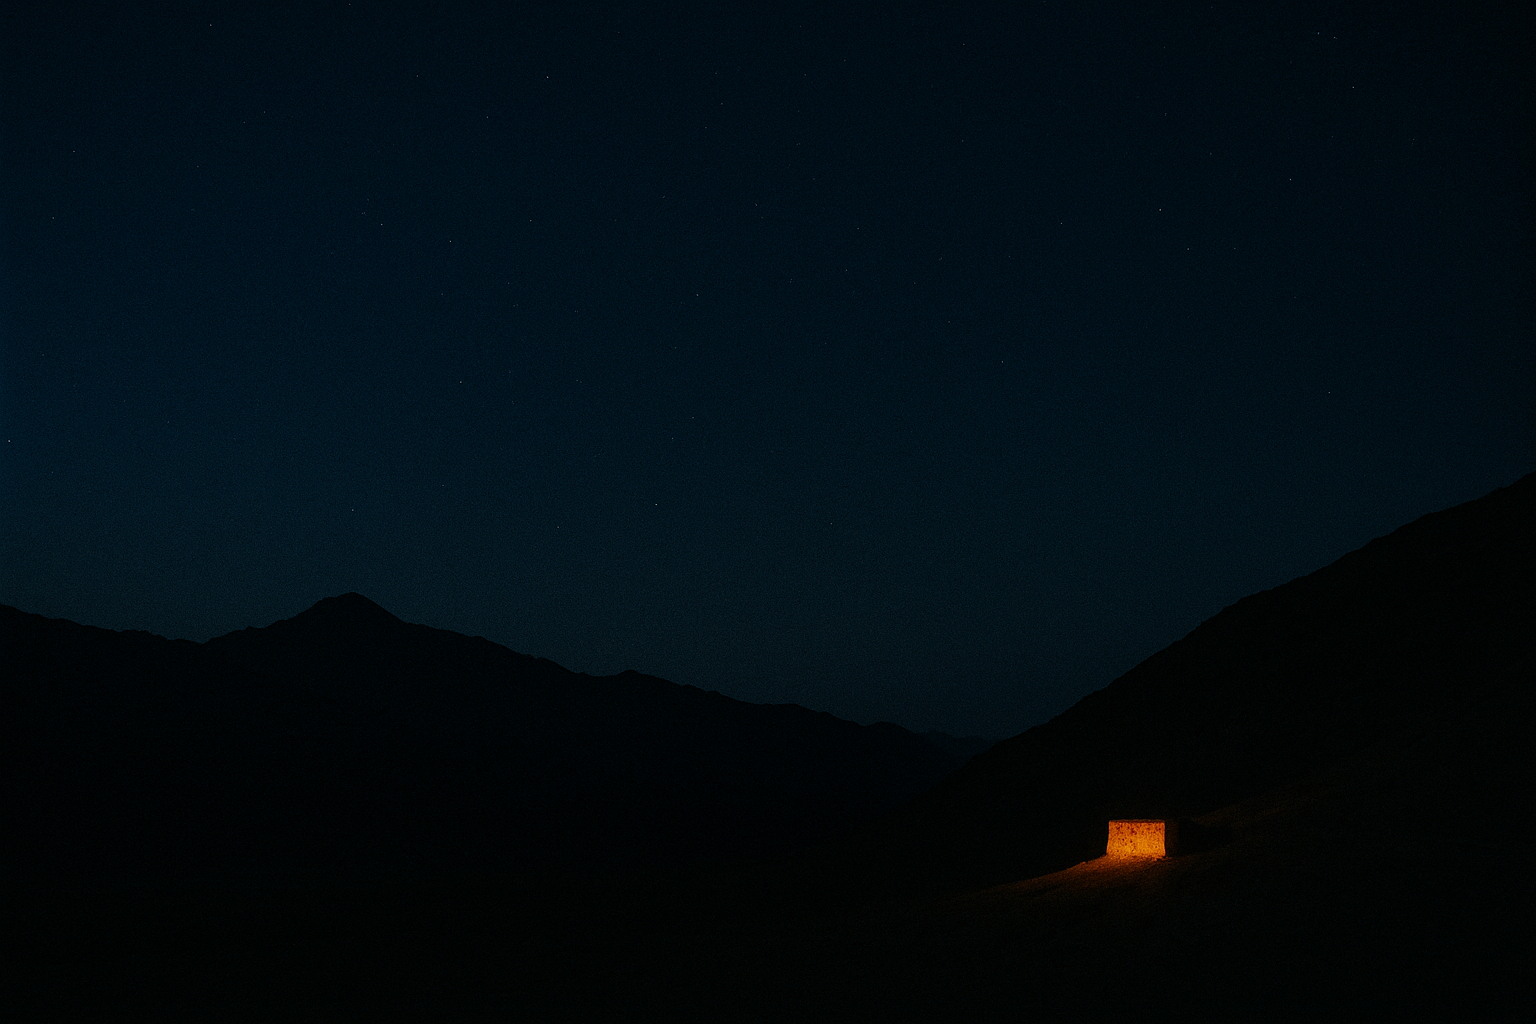
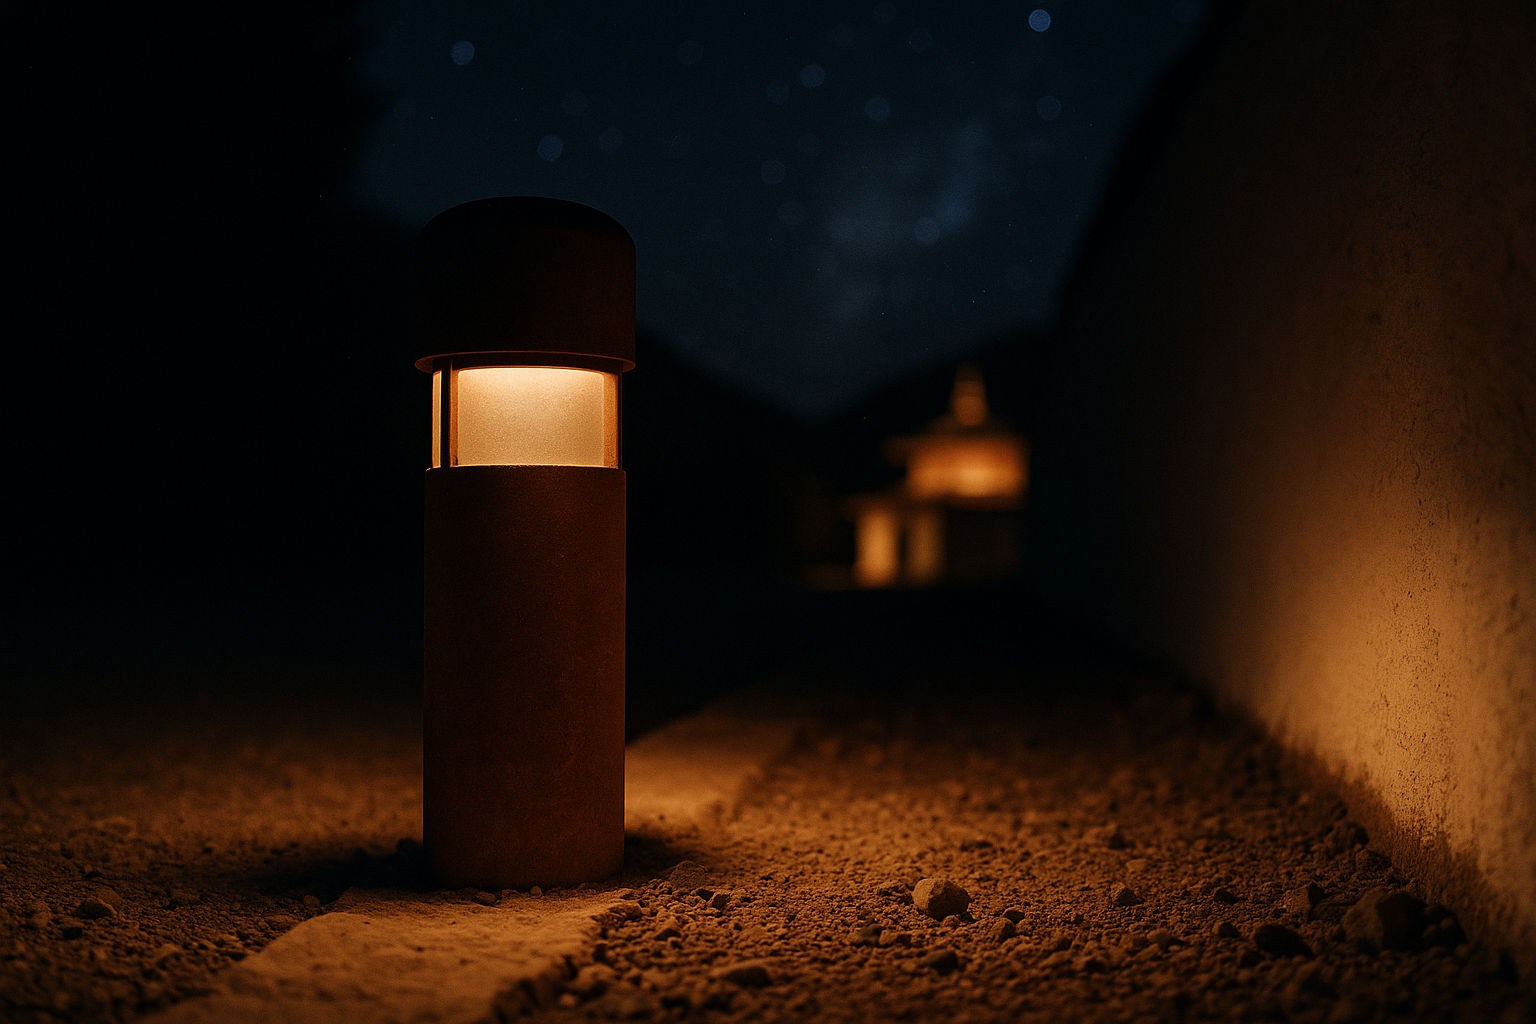
Marketing site: new mood imagery, Safety & Made robust cards, revised limitations
- Replace mood image with pathway-and-bollard scene (illustrates Aaron Rose quote)
- Update band gradient and background positioning for improved visual hierarchy
- Add Safety card: certified PSU, per-channel surge protection
- Add Made robust card: conservative design philosophy (watchdog, RTC, oversized PSU)
- Update 'can't do' section: change from 'replace an electrician' to 'replace the sun'

diff --git a/site/styles.css b/site/styles.css
@@ -415,60 +415,65 @@ body.is-bar-visible .lk-bar {
 .lk-band {
   position: relative;
   width: 100%;
-  min-height: 60vh;
-  /* The mood image (a single warm-gold wall in the lower-right of a
-     vast blue-black dusk) is anchored to the right-bottom corner via
-     background-position. A diagonal dark wash sits on top of it —
-     heaviest in the upper-left (where the quote text sits), lightest
-     in the lower-right (where the wall light glows). Result: the
-     quote always has a dark, deliberate canvas, and the focal point
-     of the image stays visible. */
+  min-height: 78vh;                   /* taller, so the bollard ends up
+                                         further down in the visible crop */
+  /* The mood image is an ordinary gravel pathway lit by a single
+     warm bollard — a literal illustration of the Aaron Rose quote.
+     Anchored at 35% Y (slightly above centre) so the bollard's body
+     and the warm gravel pool sit in the lower 60% of the band; the
+     dark sky above the bollard sits behind the quote.
+     A strong gradient at the top makes that dark area a deliberate
+     canvas; the warm light below remains as the mood. */
   background-image:
-    linear-gradient(135deg,
-      rgba(13,14,16,0.78) 0%,
-      rgba(13,14,16,0.55) 35%,
-      rgba(13,14,16,0.30) 70%,
-      rgba(13,14,16,0.08) 100%),
+    linear-gradient(180deg,
+      rgba(13,14,16,0.90) 0%,
+      rgba(13,14,16,0.78) 12%,
+      rgba(13,14,16,0.55) 25%,
+      rgba(13,14,16,0.20) 44%,
+      rgba(13,14,16,0.05) 65%,
+      rgba(13,14,16,0.28) 100%),
     url("assets/mood.webp");
   background-size: cover, cover;
-  background-position: center, right bottom;
+  background-position: center, center 30%;
   background-repeat: no-repeat, no-repeat;
   background-color: var(--ink);
   border-top: 1px solid var(--shadow);
   border-bottom: 1px solid var(--shadow);
   display: flex;
-  align-items: center;
+  align-items: flex-start;            /* quote sits at top, image breathes below */
 }
 .lk-band-inner {
   max-width: var(--column);
   margin: 0 auto;
-  padding: var(--breath-8) var(--breath-4);
+  padding: var(--breath-5) var(--breath-4) var(--breath-7);  /* 40 / 24 / 104 */
   position: relative;
   z-index: 2;
-  /* Quote sits in the LEFT HALF of the band on desktop, opposite the
-     image's lower-right focal point. Centred on mobile where the
-     image crops tighter and the wall sits at the bottom-right corner. */
   display: flex;
   flex-direction: column;
-  align-items: flex-start;
-  text-align: left;
+  align-items: center;
+  text-align: center;
 }
 @media (max-width: 700px) {
+  .lk-band {
+    min-height: 72vh;
+    /* On mobile the image scales to fit height (no vertical crop), so
+       the bollard sits where it does — no need to shift via Y position. */
+    background-position: center, center;
+  }
   .lk-band-inner {
-    align-items: center;
-    text-align: center;
-    padding: var(--breath-7) var(--breath-4);
+    padding: var(--breath-4) var(--breath-4) var(--breath-6);
   }
 }
 .lk-band-quote {
   font-family: var(--type-display);
-  font-size: clamp(28px, 4.4vw, 52px);
+  font-size: clamp(22px, 3.4vw, 38px);  /* a touch smaller — reads as an
+                                           inscription, not a banner */
   font-weight: 400;
   font-style: italic;
   font-variation-settings: "opsz" 144, "SOFT" 100;
   letter-spacing: -0.018em;
-  line-height: 1.18;
-  max-width: 22ch;
+  line-height: 1.25;
+  max-width: 26ch;
   margin: 0;
   color: var(--paper);
 }

diff --git a/site/index.html b/site/index.html
@@ -565,6 +565,32 @@
         <p class="lk-card-note">An LDR caps daylight brightness. Ambient temperature comes from an optional I2C add-on. The I2C bus is open for more.</p>
       </article>
 
+      <article class="lk-card">
+        <!-- Safety: shield with a bindu inside — echoes the brand mark
+             and reads as "protected, calm centre". -->
+        <svg class="lk-card-icon" viewBox="0 0 24 24" fill="none" stroke="currentColor" stroke-width="1.4" stroke-linecap="round" stroke-linejoin="round">
+          <path d="M12 3 L4 6 V12 C 4 17 12 21 12 21 C 12 21 20 17 20 12 V6 Z"/>
+          <circle cx="12" cy="13" r="1.8" fill="currentColor" stroke="none"/>
+        </svg>
+        <h3 class="lk-card-name">Safety</h3>
+        <p class="lk-card-spec">certified PSU · per-channel surge protection</p>
+        <p class="lk-card-note">The internal 24 V supply carries the standard industry safety marks. Each of the eight LED outputs is wrapped in a transient-voltage suppressor, so a glitch downstream doesn't reach the logic.</p>
+      </article>
+
+      <article class="lk-card">
+        <!-- Made robust: three concentric rings + a bindu — the brand
+             mark with one extra layer wrapped around it. Reads as
+             "the centre is still calm; we just added another ring." -->
+        <svg class="lk-card-icon" viewBox="0 0 24 24" fill="none" stroke="currentColor" stroke-width="1.4" stroke-linecap="round">
+          <circle cx="12" cy="12" r="9"/>
+          <circle cx="12" cy="12" r="5.5"/>
+          <circle cx="12" cy="12" r="1.8" fill="currentColor" stroke="none"/>
+        </svg>
+        <h3 class="lk-card-name">Made robust</h3>
+        <p class="lk-card-spec">out of stubbornness</p>
+        <p class="lk-card-note">Built by an engineer who finds support tickets tedious. So nothing's borderline — conservative current limits, watchdog timer, battery-backed clock, a PSU rated well over spec.</p>
+      </article>
+
     </div>
 
     <!-- =========== SOFTWARE GRID =========== -->
@@ -706,9 +732,9 @@
         <h3>What lokki can't do.</h3>
         <ul class="lk-cant">
           <li>
-            <strong>Replace an electrician.</strong>
-            It speaks at low voltage. The mains side is still someone's
-            licensed problem.
+            <strong>Replace the sun.</strong>
+            It augments daylight; it doesn't substitute for it. A space
+            without a window stays a space without a window.
           </li>
           <li>
             <strong>Cover a city.</strong>